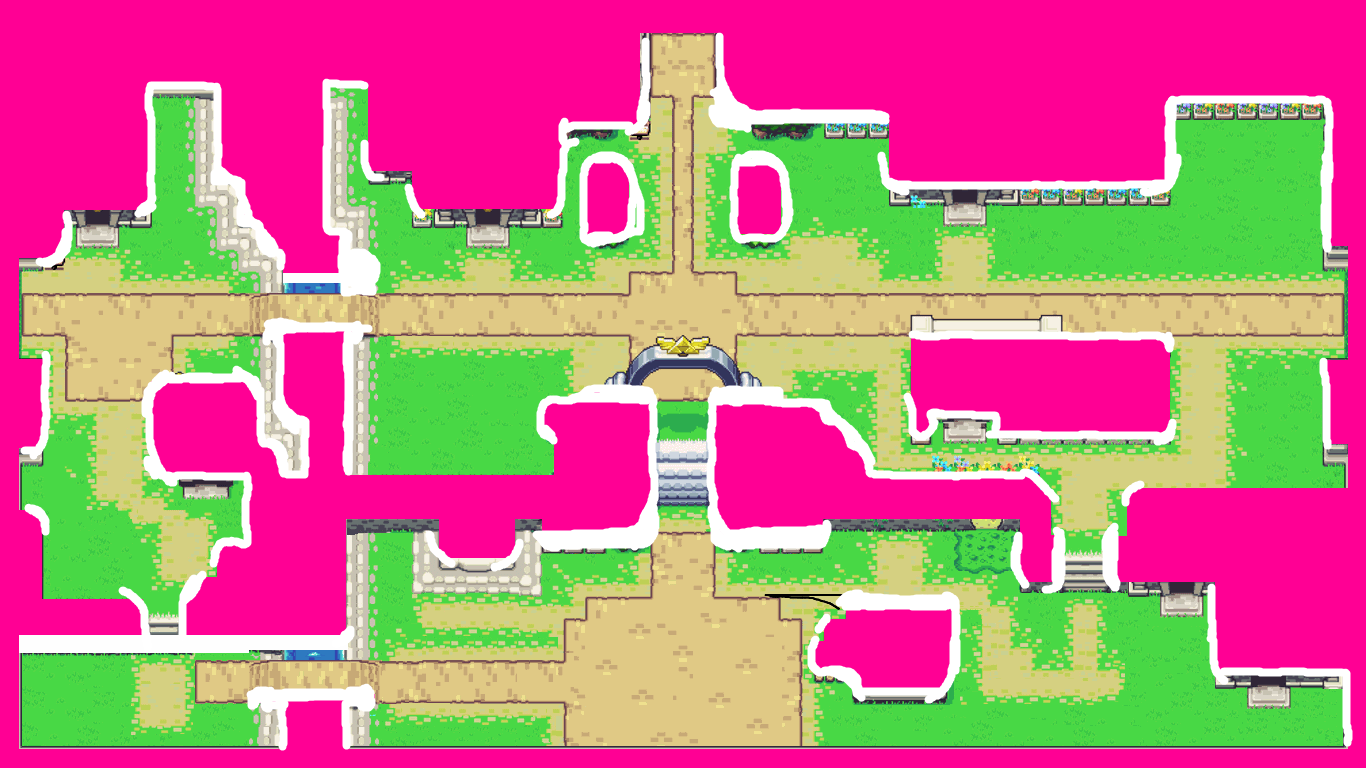
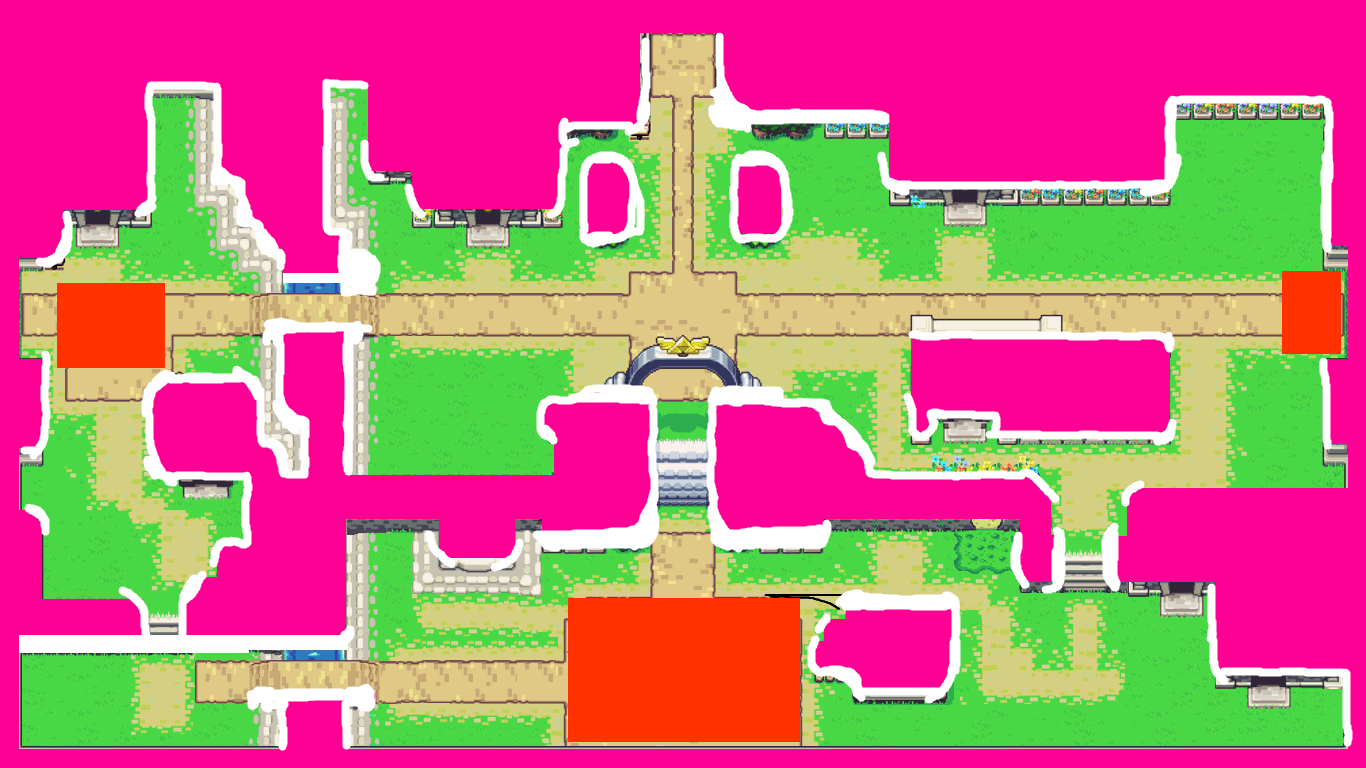
Ajout de la gestion des spawns lors de l'apparition de nouvelles vagues

Changed region(s): [[0.3997, 0.7812, 0.5842, 0.9688], [0.0307, 0.3438, 0.123, 0.5], [0.9224, 0.3438, 0.9839, 0.4688]]

diff --git a/TacticalRPG/src/testcodeframework/Wave.java b/TacticalRPG/src/testcodeframework/Wave.java
@@ -12,6 +12,9 @@ import gameframework.game.MoveBlockerCheckerDefaultImpl;
 
 import java.awt.Canvas;
 import java.awt.Point;
+import java.awt.Rectangle;
+import java.util.ArrayList;
+import java.util.Random;
 
 public class Wave {
 
@@ -37,20 +40,20 @@ public class Wave {
 		moveBlockerChecker = mc;
 	}
 	
-	public void initWave() {
+	public void initWave(ArrayList<Rectangle> spawns) {
 		GameMovable ennemyType = null;
 		GameMovableDriverDefaultImpl driver = null;
 		MoveStrategy move = null;
 		for(int t = 0; t < waveLength; ++t) {
 			if(waveType.equals("octorok")) {
 				ennemyType = new Octorock(canvas);
-				ennemyType.setPosition(new Point(14 * spriteSize, 15 * spriteSize));
+				ennemyType.setPosition(randomSpawn(spawns));
 				driver = new OctorockMovableDriver();
 				move = new MoveStrategyOctorock();
 			}
 			if(waveType.equals("keaton")) {
 				ennemyType = new Keaton(canvas);
-				ennemyType.setPosition(new Point(14 * spriteSize, 15 * spriteSize));
+				ennemyType.setPosition(randomSpawn(spawns));
 				driver = new KeatonMovableDriver();
 				move = new MoveStrategyKeaton(ennemyType.getPosition(), toFollow);
 			}
@@ -61,6 +64,17 @@ public class Wave {
 			if(ennemyType != null)
 				universe.addGameEntity((GameEntity) ennemyType);
 		}
+	}
+
+	private Point randomSpawn(ArrayList<Rectangle> spawns) {
+		Random rdm = new Random();
+		int i = rdm.nextInt(spawns.size());
+		Rectangle r = spawns.get(i);
+		int x = 0, y = 0;
+		System.out.println(spawns.size());
+		x = r.x+rdm.nextInt(r.width)-spriteSize;
+		y = r.y+rdm.nextInt(r.height)-spriteSize;
+		return new Point(x, y);
 	}
 
 	public String getWaveType() {

diff --git a/TacticalRPG/src/testcodeframework/GameLevelOne.java b/TacticalRPG/src/testcodeframework/GameLevelOne.java
@@ -52,7 +52,10 @@ public class GameLevelOne extends GameLevelDefaultImpl {
 	protected void init() {
 		
 		CalculateMatrix cm = new CalculateMatrix();
-		ArrayList<Rectangle> collisions = cm.calculateMatrix("src/ressources/img/collisions.png");
+		cm.calculateMatrix("src/ressources/img/collisions.png");
+		ArrayList<Rectangle> collisions = cm.getCollisions();
+		final ArrayList<Rectangle> spawns = cm.getSpawns();
+		
 		OverlapProcessor overlapProcessor = new OverlapProcessorDefaultImpl();
 
 		MoveBlockerChecker moveBlockerChecker = new MoveBlockerCheckerDefaultImpl();
@@ -81,8 +84,8 @@ public class GameLevelOne extends GameLevelDefaultImpl {
 		myLink.setPosition(new Point(39*SPRITE_SIZE, 17*SPRITE_SIZE));
 		universe.addGameEntity(myLink);
 		refreshElements();
-		waves.add(new Wave("octorok", 10, 5, canvas, SPRITE_SIZE, universe, myLink.getPosition(), moveBlockerChecker));
-		waves.add(new Wave("keaton", 10, 15, canvas, SPRITE_SIZE, universe, myLink.getPosition(), moveBlockerChecker));
+		waves.add(new Wave("octorok", 10, 5, canvas, 20, universe, myLink.getPosition(), moveBlockerChecker));
+		waves.add(new Wave("keaton", 10, 15, canvas, 20, universe, myLink.getPosition(), moveBlockerChecker));
 		
 		
 		Timer timer = new Timer();
@@ -91,7 +94,7 @@ public class GameLevelOne extends GameLevelDefaultImpl {
 				timerTick++;
 				for(Wave w:waves) {
 					if(w.getWaveStartTime()==timerTick) {
-						w.initWave();
+						w.initWave(spawns);
 						refreshElements();
 					}
 				}

diff --git a/TacticalRPG/src/utils/CalculateMatrix.java b/TacticalRPG/src/utils/CalculateMatrix.java
@@ -17,7 +17,7 @@ public class CalculateMatrix {
 	int white = (255<<24)+(255<<16)+(255<<8)+255;
 	int[] rgbs;
 	
-	public ArrayList<Rectangle> calculateMatrix(String imgPath){
+	public void calculateMatrix(String imgPath){
 
 		BufferedImage in;
 		
@@ -43,12 +43,10 @@ public class CalculateMatrix {
 				}
 			}
 			
-			return boxes;
 
 		} catch (IOException e) {
 			e.printStackTrace();
 		}
-		return null;
 	}
 
 
@@ -61,11 +59,11 @@ public class CalculateMatrix {
 		}
 		Rectangle line = new Rectangle(x, y, w-x, h-y);
 		
-		while(h < imgH){
+		while(h < imgH-1){
 			++h;
 			w=line.x;
 			while(w < imgW){
-				if(rgbs[y*(imgW) + w] != color && w >= line.x && w <= line.x+line.width)
+				if(rgbs[h*(imgW) + w] != color && w >= line.x && w < line.x+line.width)
 				{
 					return line;
 				}
@@ -79,5 +77,13 @@ public class CalculateMatrix {
 		
 		return line;
 		
+	}
+	
+	public ArrayList<Rectangle> getCollisions(){
+		return boxes;
+	}
+	
+	public ArrayList<Rectangle> getSpawns(){
+		return spawns;
 	}
 }

diff --git a/TacticalRPG/src/gameframework/expansion/MoveStrategyOctorock.java b/TacticalRPG/src/gameframework/expansion/MoveStrategyOctorock.java
@@ -17,7 +17,7 @@ public class MoveStrategyOctorock implements MoveStrategy {
 		
 		if(hold <= 0){
 			
-			int i = random.nextInt(6);
+			int i = random.nextInt(5);
 
 			switch (i) {
 			case 0:
